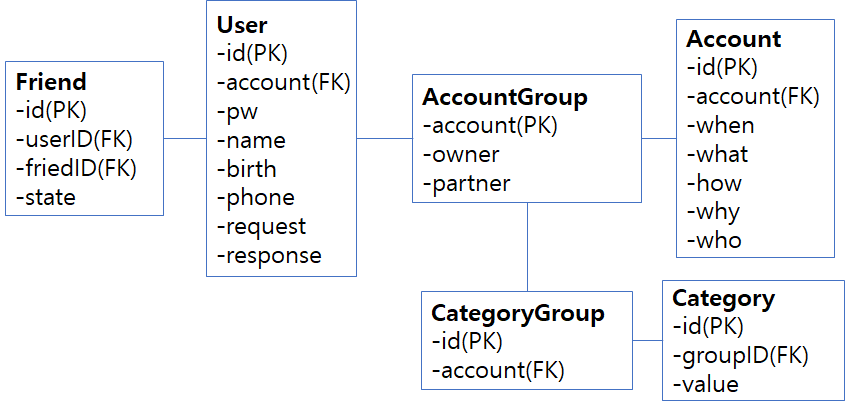
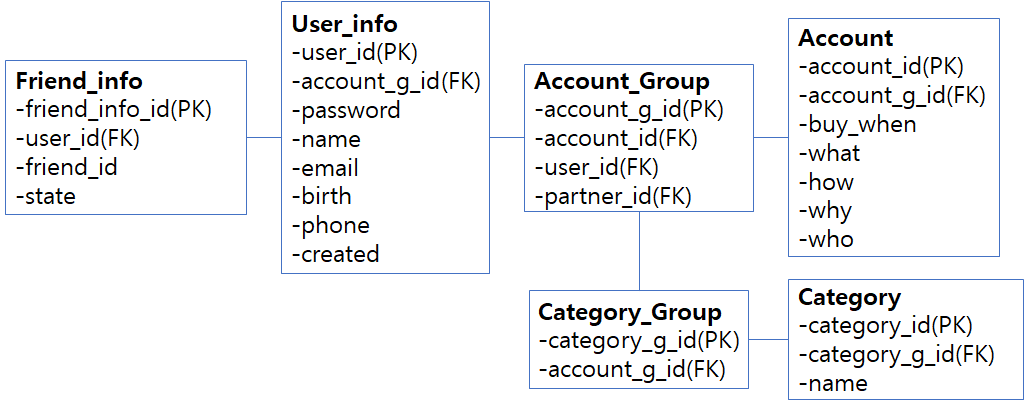
user_info update

diff --git a/src/main/java/com/gongbu/bootJPA/entity/UserInfo.java b/src/main/java/com/gongbu/bootJPA/entity/UserInfo.java
@@ -2,31 +2,45 @@ package com.gongbu.bootJPA.entity;
 
 import java.util.Date;
 
+import javax.persistence.Column;
 import javax.persistence.Entity;
 import javax.persistence.Id;
+import javax.persistence.Table;
 import javax.persistence.Temporal;
 import javax.persistence.TemporalType;
 
 @Entity
-public class Users {
+@Table(name = "user_info")
+public class UserInfo {
 	
 	@Id
+	@Column(name = "user_id")
 	private String id;
 	
+	private String password;
 	private String name;
-	private String pw;
 	private String phone;
-	private String birth; 
-	
+	private String birth;
+	private String email;
+	private String account_g_id;
+
 	@Temporal(TemporalType.TIMESTAMP)
 	private Date created;
-
+	
 	public String getId() {
 		return id;
 	}
 
 	public void setId(String id) {
 		this.id = id;
+	}
+
+	public String getAccount_g_id() {
+		return account_g_id;
+	}
+
+	public void setAccount_g_id(String account_g_id) {
+		this.account_g_id = account_g_id;
 	}
 
 	public String getName() {
@@ -37,12 +51,12 @@ public class Users {
 		this.name = name;
 	}
 
-	public String getPw() {
-		return pw;
+	public String getPassword() {
+		return password;
 	}
 
-	public void setPw(String pw) {
-		this.pw = pw;
+	public void setPassword(String password) {
+		this.password = password;
 	}
 
 	public String getPhone() {
@@ -61,6 +75,14 @@ public class Users {
 		this.birth = birth;
 	}
 
+	public String getEmail() {
+		return email;
+	}
+	
+	public void setEmail(String email) {
+		this.email = email;
+	}
+
 	public Date getCreated() {
 		return created;
 	}
@@ -68,4 +90,5 @@ public class Users {
 	public void setCreated(Date created) {
 		this.created = created;
 	}
+
 }

diff --git a/src/main/java/com/gongbu/bootJPA/controller/UsersController.java b/src/main/java/com/gongbu/bootJPA/controller/UsersController.java
@@ -8,38 +8,38 @@ import org.springframework.web.bind.annotation.PostMapping;
 import org.springframework.web.bind.annotation.RequestMapping;
 import org.springframework.web.bind.annotation.RestController;
 
-import com.gongbu.bootJPA.entity.Users;
-import com.gongbu.bootJPA.service.UsersService;
+import com.gongbu.bootJPA.entity.UserInfo;
+import com.gongbu.bootJPA.service.UserInfoService;
 
 @RestController
 @RequestMapping("/users/*")
 public class UsersController {
 	
 	@Autowired
-	private UsersService usersService;
+	private UserInfoService usersInfoService;
 	
 	@PostMapping("/login")
-	public Boolean loginUser(String id, String pw) {
-		return usersService.login(id, pw);
+	public Boolean loginUser(String id, String password) {
+		return usersInfoService.login(id, password);
 	}
 	
 	@PostMapping("/register")
-	public Boolean registerUser(Users user) {
-		System.out.println(user.getId());
-		Users users = new Users();
+	public Boolean registerUser(UserInfo user) {
+		UserInfo users = new UserInfo();
 		users.setId(user.getId());
-		users.setPw(user.getPw());
+		users.setPassword(user.getPassword());
 		users.setName(user.getName());
 		users.setPhone(user.getPhone());
+		users.setEmail(user.getEmail());
 		users.setBirth(user.getBirth());
 		users.setCreated(new Date());
 		
-		return usersService.registerUser(users);
+		return usersInfoService.registerUser(users);
 	}
 	
 	@PostMapping("/get")
-	public Users getUser(String id) {
-		return usersService.getUser(id);
+	public UserInfo getUser(String user_id) {
+		return usersInfoService.getUser(user_id);
 	}
 	
 	@GetMapping("/check")

diff --git a/src/test/java/com/gongbu/bootJPA/ApplicationTests.java b/src/test/java/com/gongbu/bootJPA/ApplicationTests.java
@@ -12,8 +12,8 @@ import org.springframework.boot.test.autoconfigure.web.servlet.AutoConfigureMock
 import org.springframework.boot.test.context.SpringBootTest;
 import org.springframework.test.context.junit4.SpringRunner;
 
-import com.gongbu.bootJPA.entity.Users;
-import com.gongbu.bootJPA.service.UsersService;
+import com.gongbu.bootJPA.entity.UserInfo;
+import com.gongbu.bootJPA.service.UserInfoService;
 
 @RunWith(SpringRunner.class)
 //@ContextConfiguration(classes=Application.class)
@@ -25,7 +25,7 @@ class ApplicationTests {
 	//private ApplicationContext context;
 	
 	@Autowired
-	private UsersService service;
+	private UserInfoService service;
 	
 	@Before
 	public static void before() {
@@ -34,7 +34,7 @@ class ApplicationTests {
 	
 	//@Test
 	public void joinTest() throws Exception {
-		Users user = new Users();
+		UserInfo user = new UserInfo();
 		
 		user.setId("junit");
 		user.setName("name");
@@ -47,7 +47,7 @@ class ApplicationTests {
 	
 	@Test
 	public void getTest() throws Exception {
-		Users user = new Users();
+		UserInfo user = new UserInfo();
 		
 		user = service.getUser("21");
 		assertEquals(user.getName(), "test");

diff --git a/src/main/java/com/gongbu/bootJPA/service/UserInfoServiceImpl.java b/src/main/java/com/gongbu/bootJPA/service/UserInfoServiceImpl.java
@@ -1,0 +1,38 @@
+package com.gongbu.bootJPA.service;
+
+import org.springframework.beans.factory.annotation.Autowired;
+import org.springframework.stereotype.Service;
+
+import com.gongbu.bootJPA.entity.UserInfo;
+import com.gongbu.bootJPA.repository.UserInfoRepository;
+
+@Service("UserInfoService")
+public class UserInfoServiceImpl implements UserInfoService{
+	
+	@Autowired
+	UserInfoRepository userRepository;
+	
+	@Override
+	public Boolean login(String id, String password) {
+		UserInfo user = userRepository.findById(id).orElse(new UserInfo());
+		if(user.getId().equals(id) && user.getPassword().equals(password)) {
+			return true;
+		}
+		return false;
+	}
+	
+	@Override
+	public Boolean registerUser(UserInfo user) {
+		if(userRepository.findById(user.getId()).orElse(null) == null) {
+			userRepository.save(user);
+		} else {
+			return false;
+		}
+		return true;
+	}
+
+	@Override
+	public UserInfo getUser(String id) {
+        return userRepository.findById(id).orElse(new UserInfo());
+	}
+}

diff --git a/src/main/java/com/gongbu/bootJPA/entity/Category.java b/src/main/java/com/gongbu/bootJPA/entity/Category.java
@@ -2,22 +2,25 @@ package com.gongbu.bootJPA.entity;
 
 import javax.persistence.Entity;
 import javax.persistence.Id;
+import javax.persistence.Table;
 
 @Entity
+@Table(name = "category_group")
 public class Category {
 	
 	@Id
-	private String id;
+	private String num;
 	
 	private String key;
 	private String value;
 	
-	public String getId() {
-		return id;
+	public String getNum() {
+		return num;
 	}
-	public void setId(String id) {
-		this.id = id;
+	public void setNum(String num) {
+		this.num = num;
 	}
+	
 	public String getKey() {
 		return key;
 	}

diff --git a/src/main/java/com/gongbu/bootJPA/service/CategoryServiceImpl.java b/src/main/java/com/gongbu/bootJPA/service/CategoryServiceImpl.java
@@ -21,7 +21,7 @@ public class CategoryServiceImpl implements CategoryService {
 
 	@Override
 	public Boolean setCategory(Category cat) {
-		if(categoryRepository.findById(cat.getId()).orElse(new Category()) != null) {
+		if(categoryRepository.findById(cat.getKey()).orElse(new Category()) != null) {
 			categoryRepository.save(cat);
 			return true;
 		} else {

diff --git a/src/main/java/com/gongbu/bootJPA/service/UserInfoService.java b/src/main/java/com/gongbu/bootJPA/service/UserInfoService.java
@@ -1,0 +1,9 @@
+package com.gongbu.bootJPA.service;
+
+import com.gongbu.bootJPA.entity.UserInfo;
+
+public interface UserInfoService {
+	public Boolean login(String id, String pw);
+	public Boolean registerUser(UserInfo user);
+	public UserInfo getUser(String id);
+}

diff --git a/src/main/java/com/gongbu/bootJPA/repository/UserInfoRepository.java b/src/main/java/com/gongbu/bootJPA/repository/UserInfoRepository.java
@@ -1,0 +1,8 @@
+package com.gongbu.bootJPA.repository;
+
+import org.springframework.data.jpa.repository.JpaRepository;
+
+import com.gongbu.bootJPA.entity.UserInfo;
+
+public interface UserInfoRepository extends JpaRepository<UserInfo, String>{
+}
